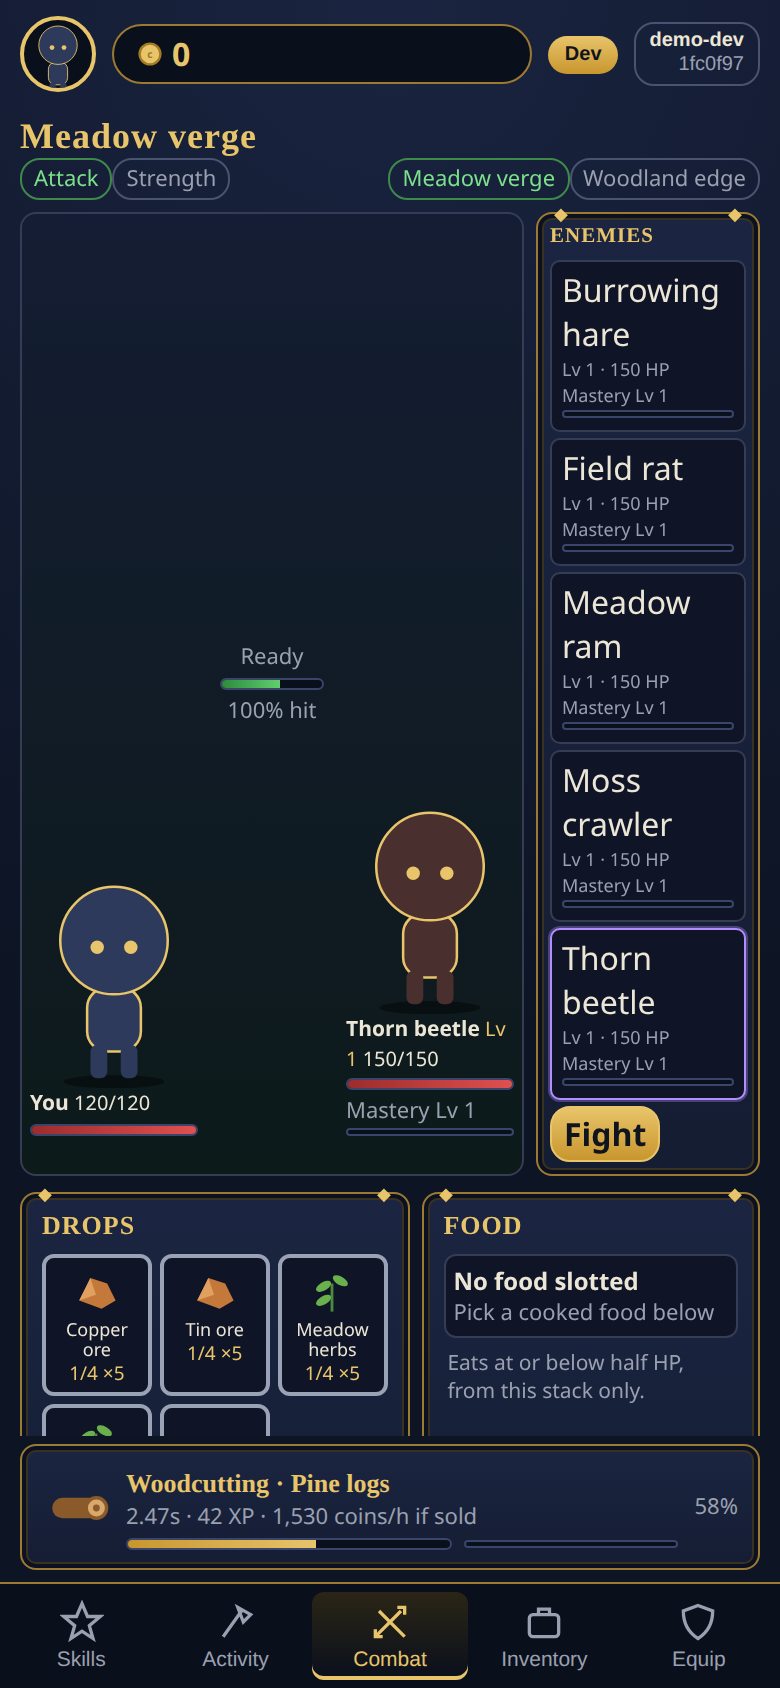
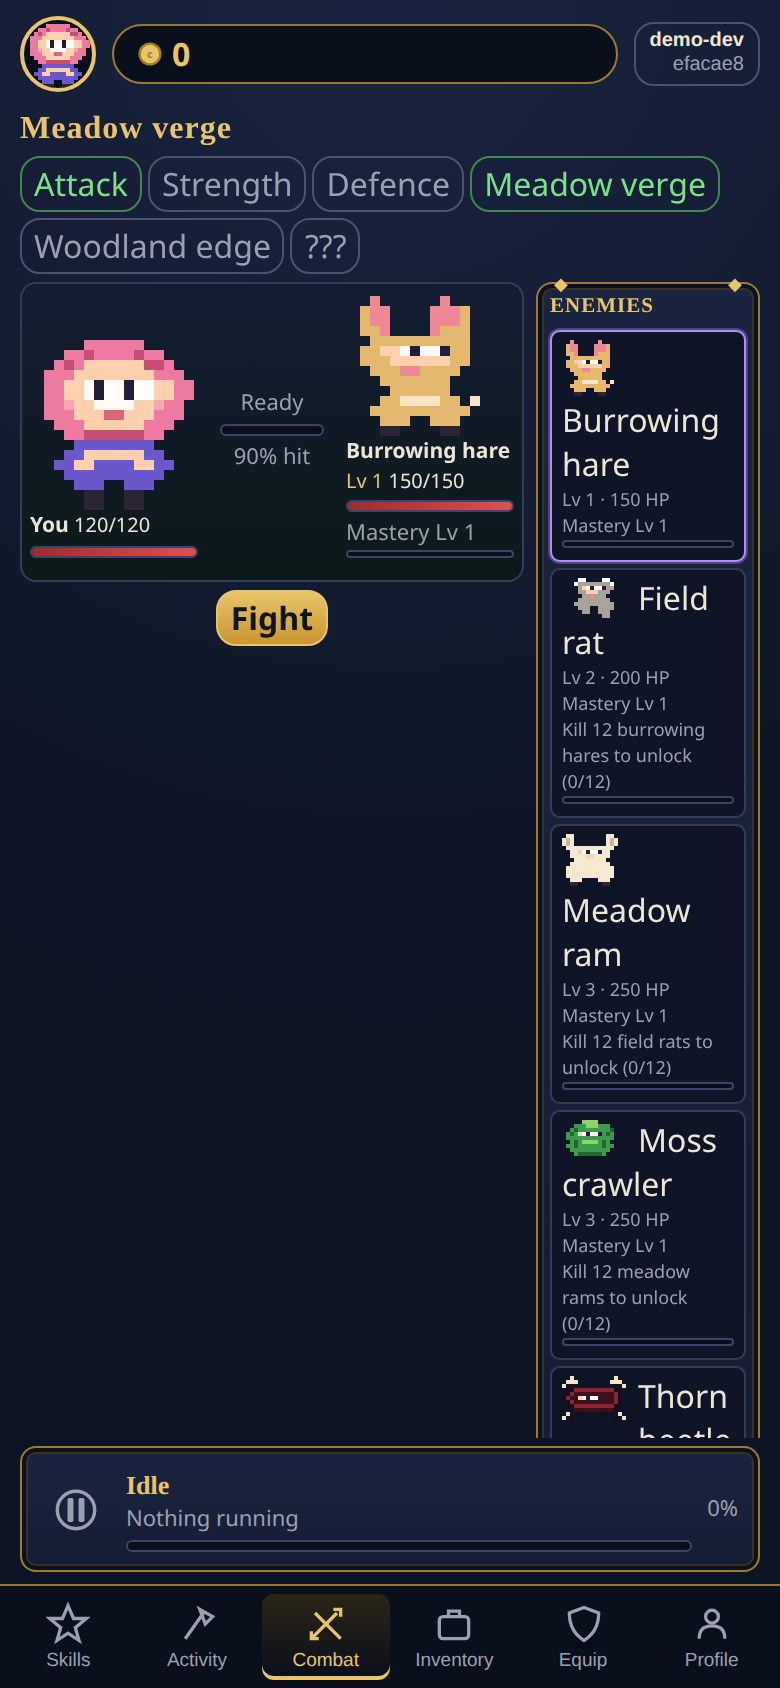
Show a disabled Fight button and keep combat figures on screen (#18)
* Show a disabled Fight button and keep combat figures above the activity bar.

Locked rungs and the future-area teaser keep a visible Fight control that cannot start a fight. At 390 by 844 the player and enemy figures sit with that control, above the activity bar, on Meadow and Woodland.

* Refresh Meadow, Woodland, and teaser combat screenshots at 390 by 844.

---------

diff --git a/src/ui.ts b/src/ui.ts
@@ -498,8 +498,8 @@ function combatHtml(state: Save, view: View): string {
     const styles = COMBAT_STYLES.filter((id) => state.owned.includes(id))
       .map((id) => `<button type="button" class="tag ${style === id ? 'on' : ''}" data-style="${id}">${id}</button>`)
       .join('');
-    return `<div class="areahead"><div><h2>${esc(TEASER_AREA)}</h2><small>${styles}</small></div><small>${areaButtons(view)}</small></div>
-      <div class="panel"><p class="note">${esc(TEASER_COPY)}</p></div>`;
+    return `${areaHead(TEASER_AREA, styles, view)}
+      <div class="panel"><p class="note">${esc(TEASER_COPY)}</p>${fightButton(null, false)}</div>`;
   }
   const enemies = ENEMIES.filter((enemy) => enemy.area === view.area);
   if (view.area === 'Woodland edge') {
@@ -517,7 +517,6 @@ function combatHtml(state: Save, view: View): string {
   const styles = COMBAT_STYLES.filter((id) => state.owned.includes(id))
     .map((id) => `<button type="button" class="tag ${style === id ? 'on' : ''}" data-style="${id}">${id}</button>`)
     .join('');
-  const areas = areaButtons(view);
   const list = enemies
     .map((enemy) => {
       const gate = lockLine(state.enemyKills, enemy.id);
@@ -536,14 +535,17 @@ function combatHtml(state: Save, view: View): string {
     .map((id) => `<button type="button" class="tag ${state.foodSlot === id ? 'on' : ''}" data-food="${id}">${esc(itemName(id))} ×${state.bank[id]}</button>`)
     .join(' ');
   const chance = Math.round(shownHitChance(state, selected.level) * 100);
-  return `<div class="areahead"><div><h2>${esc(view.area)}</h2><small>${styles}</small></div><small>${areas}</small></div>
+  return `${areaHead(view.area, styles, view)}
     <div class="fight">
-      <div class="scene">
-        <div class="fighter">${playerFigure(84)}<div class="hp"><b>You</b> ${state.hp}/${maxHp(state)}${bar((state.hp / maxHp(state)) * 100, 'red')}</div></div>
-        <div class="vs"><small>${fighting ? 'In fight' : 'Ready'}</small>${bar(activityPct(state), 'green', 'fight-bar')}<small>${chance}% hit</small></div>
-        <div class="fighter">${enemyFigure(selected.id, 84)}<div class="hp"><b>${esc(selected.name)}</b> <em>Lv ${selected.level}</em> ${Math.max(0, Math.ceil(enemyHp))}/${enemyMax}${bar((enemyHp / enemyMax) * 100, 'red')}${masteryLine(state.enemyMastery[selected.id] ?? 0)}</div></div>
+      <div class="stage">
+        <div class="scene">
+          <div class="fighter">${playerFigure(84)}<div class="hp"><b>You</b> ${state.hp}/${maxHp(state)}${bar((state.hp / maxHp(state)) * 100, 'red')}</div></div>
+          <div class="vs"><small>${fighting ? 'In fight' : 'Ready'}</small>${bar(activityPct(state), 'green', 'fight-bar')}<small>${chance}% hit</small></div>
+          <div class="fighter">${enemyFigure(selected.id, 84)}<div class="hp"><b>${esc(selected.name)}</b> <em>Lv ${selected.level}</em> ${Math.max(0, Math.ceil(enemyHp))}/${enemyMax}${bar((enemyHp / enemyMax) * 100, 'red')}${masteryLine(state.enemyMastery[selected.id] ?? 0)}</div></div>
+        </div>
+        ${fightControl(state, selected.id)}
       </div>
-      <div class="panel enemies"><h3>Enemies</h3>${list}${fightControl(state, selected.id)}</div>
+      <div class="panel enemies"><h3>Enemies</h3>${list}</div>
     </div>
     <div class="two">
       <div class="panel"><h3>Drops</h3><div class="lootgrid">${drops}${coins}</div><p class="note">Each drop rolls on its own.</p></div>
@@ -585,11 +587,22 @@ function inventoryHtml(state: Save, view: View, now: number): string {
     ${sell}`;
 }
 
+function areaHead(title: string, styles: string, view: View): string {
+  return `<div class="areahead"><h2>${esc(title)}</h2><div class="chips">${styles}${areaButtons(view)}</div></div>`;
+}
+
+/** A visible Fight control. Locked rungs and the teaser keep the button and disable it. */
+function fightButton(enemyId: string | null, enabled: boolean): string {
+  const target = enemyId ? ` data-fight="${enemyId}"` : '';
+  const disabled = enabled ? '' : ' disabled';
+  return `<button type="button" class="tag btn"${target}${disabled}>Fight</button>`;
+}
+
 function fightControl(state: Save, enemyId: string): string {
   if (!weaponReady(state)) return '<p class="note">Equip a weapon first.</p>';
   const gate = lockLine(state.enemyKills, enemyId);
-  if (gate) return `<p class="note">${esc(gate)}</p>`;
-  return `<button type="button" class="tag btn" data-fight="${enemyId}">Fight</button>`;
+  const button = fightButton(enemyId, !gate);
+  return gate ? `<p class="note">${esc(gate)}</p>${button}` : button;
 }
 
 function weaponReady(state: Save): boolean {

diff --git a/tests/layout.test.ts b/tests/layout.test.ts
@@ -1,7 +1,7 @@
 import { readFileSync } from 'node:fs';
 import { chromium } from 'playwright';
 import { describe, expect, it } from 'vitest';
-import { equip, newGame } from '../src/engine';
+import { equip, newGame, type Save } from '../src/engine';
 import { activityHtml, headerHtml, mainHtml, shellHtml, tabsHtml, type View } from '../src/ui';
 
 const css = readFileSync(new URL('../src/style.css', import.meta.url), 'utf8');
@@ -93,3 +93,42 @@ describe('equipment rows', () => {
     }
   });
 });
+
+describe('combat figures at 390×844', () => {
+  it('keeps both figures above the activity bar on Meadow and Woodland', async () => {
+    const meadow = combatSave();
+    const woodland = combatSave();
+    woodland.enemyKills['meadow.beetle'] = 1;
+    await expectFiguresAboveBar(meadow, { ...view, tab: 'combat', area: 'Meadow verge', selected: 'meadow.hare', style: 'Strength' });
+    await expectFiguresAboveBar(woodland, { ...view, tab: 'combat', area: 'Woodland edge', selected: 'wood.fox', style: 'Strength' });
+  });
+});
+
+function combatSave(): Save {
+  const state = newGame(0);
+  state.owned.push('Attack', 'Strength', 'Defence', 'Hitpoints');
+  state.xp.Attack = 0;
+  state.xp.Strength = 0;
+  state.xp.Defence = 0;
+  state.xp.Hitpoints = 0;
+  return state;
+}
+
+async function expectFiguresAboveBar(state: Save, screen: View): Promise<void> {
+  const html = shellHtml(headerHtml(state, false), '', mainHtml(state, screen, 0), activityHtml(state), tabsHtml(screen));
+  const browser = await chromium.launch({ headless: true });
+  const page = await browser.newPage({ viewport: { width: 390, height: 844 } });
+  await page.setContent(`<!doctype html><html><head><style>${css}</style></head><body><div id="app">${html}</div></body></html>`);
+  const bar = await page.locator('[data-activity]').boundingBox();
+  const figures = await page.locator('.fight .fighter').all();
+  expect(bar).toBeTruthy();
+  expect(figures).toHaveLength(2);
+  for (const figure of figures) {
+    const box = await figure.boundingBox();
+    expect(box).toBeTruthy();
+    expect(box!.y).toBeGreaterThanOrEqual(0);
+    expect(box!.height).toBeGreaterThan(40);
+    expect(box!.y + box!.height).toBeLessThanOrEqual(bar!.y);
+  }
+  await browser.close();
+}

diff --git a/tests/ladder.test.ts b/tests/ladder.test.ts
@@ -64,10 +64,10 @@ describe('check 26 meadow ladder', () => {
     }
     const locked = mainHtml(state, combatView('Meadow verge', 'meadow.rat'), 0);
     expect(locked).toContain('Kill 12 burrowing hares to unlock (0/12)');
-    expect(locked).not.toContain('data-fight="meadow.rat"');
+    expect(locked).toContain('data-fight="meadow.rat" disabled');
     const wood = mainHtml(state, combatView('Woodland edge', 'wood.fox'), 0);
     expect(wood).toContain('Kill the Thorn beetle to open Woodland edge.');
-    expect(wood).not.toContain('data-fight=');
+    expect(wood).toContain('data-fight="wood.fox" disabled');
 
     stopActivity(state);
     startCombat(state, 'meadow.hare', 'Strength');
@@ -119,10 +119,14 @@ describe('check 27 woodland ladder', () => {
     const wood = mainHtml(state, combatView('Woodland edge', 'wood.fox'), 0);
     expect(wood).toContain('Kill 12 forest foxes to unlock (0/12)');
     expect(wood).toContain('data-fight="wood.fox"');
-    expect(wood).not.toContain('data-fight="wood.jay"');
+    expect(wood).not.toContain('data-fight="wood.fox" disabled');
+    const jay = mainHtml(state, combatView('Woodland edge', 'wood.jay'), 0);
+    expect(jay).toContain('data-fight="wood.jay" disabled');
+    expect(jay).toContain('Kill 12 forest foxes to unlock (0/12)');
     expect(wood).toContain(`data-area="${TEASER_AREA}"`);
     const early = mainHtml(state, combatView(TEASER_AREA, 'wood.fox'), 0);
     expect(early).toContain(TEASER_COPY);
+    expect(early).toContain('disabled>Fight</button>');
     expect(early).not.toContain('data-fight');
     expect(early).not.toContain('data-enemy');
     expect(startCombat(state, 'meadow.hare', 'Strength')).toBe(true);
@@ -166,6 +170,7 @@ describe('check 27 woodland ladder', () => {
     const teaser = mainHtml(state, combatView(TEASER_AREA, 'wood.poacher'), 0);
     expect(teaser).toContain(TEASER_COPY);
     expect(teaser).toContain(`data-area="${TEASER_AREA}"`);
+    expect(teaser).toContain('disabled>Fight</button>');
     expect(teaser).not.toContain('data-fight');
     expect(teaser).not.toContain('data-enemy');
   });

diff --git a/src/style.css b/src/style.css
@@ -79,10 +79,14 @@ h3 { font-size: 13px; text-transform: uppercase; margin-bottom: 6px; display: fl
 .price small { font-size: 9.5px; } .free { color: #7be08a; font-size: 13px; }
 
 /* combat */
-.areahead { display: flex; justify-content: space-between; align-items: flex-end; margin: 2px 0 6px; }
-.areahead h2 { font-size: 18px; }
-.fight { display: grid; grid-template-columns: 1fr 112px; gap: 6px; }
-.fight .scene { justify-content: space-between; align-items: flex-end; padding: 6px 4px 16px; margin: 0; background: linear-gradient(#141d33, #0d1a1a); }
+.areahead { display: flex; flex-direction: column; align-items: stretch; gap: 4px; margin: 0 0 4px; }
+.areahead h2 { font-size: 16px; line-height: 1.1; }
+.chips { display: flex; flex-wrap: wrap; gap: 3px; }
+.fight { display: grid; grid-template-columns: 1fr 112px; gap: 6px; align-items: start; }
+.stage { display: flex; flex-direction: column; align-items: stretch; gap: 4px; min-width: 0; }
+.stage .tag.btn { align-self: center; }
+.fight .scene { justify-content: space-between; align-items: flex-end; padding: 6px 4px 8px; margin: 0; background: linear-gradient(#141d33, #0d1a1a); }
+button.tag.btn:disabled { color: var(--muted); background: #1c2438; border-color: #4a5370; cursor: default; opacity: 1; }
 .fighter { display: flex; flex-direction: column; align-items: center; width: 84px; }
 svg.pixel { image-rendering: pixelated; image-rendering: crisp-edges; }
 .hp { font-size: 10px; width: 100%; } .hp b { font-size: 10.5px; } .hp em { color: var(--gold); font-style: normal; }

diff --git a/src/main.ts b/src/main.ts
@@ -305,7 +305,7 @@ app.addEventListener('click', (event) => {
   if (target.dataset.area === 'Meadow verge' || target.dataset.area === 'Woodland edge' || target.dataset.area === '???') {
     view.area = target.dataset.area;
   }
-  if (target.dataset.fight) {
+  if (target.dataset.fight && !target.hasAttribute('disabled')) {
     const style = view.style && state.owned.includes(view.style) ? view.style : firstStyle();
     if (style) {
       startCombat(state, target.dataset.fight, style);
